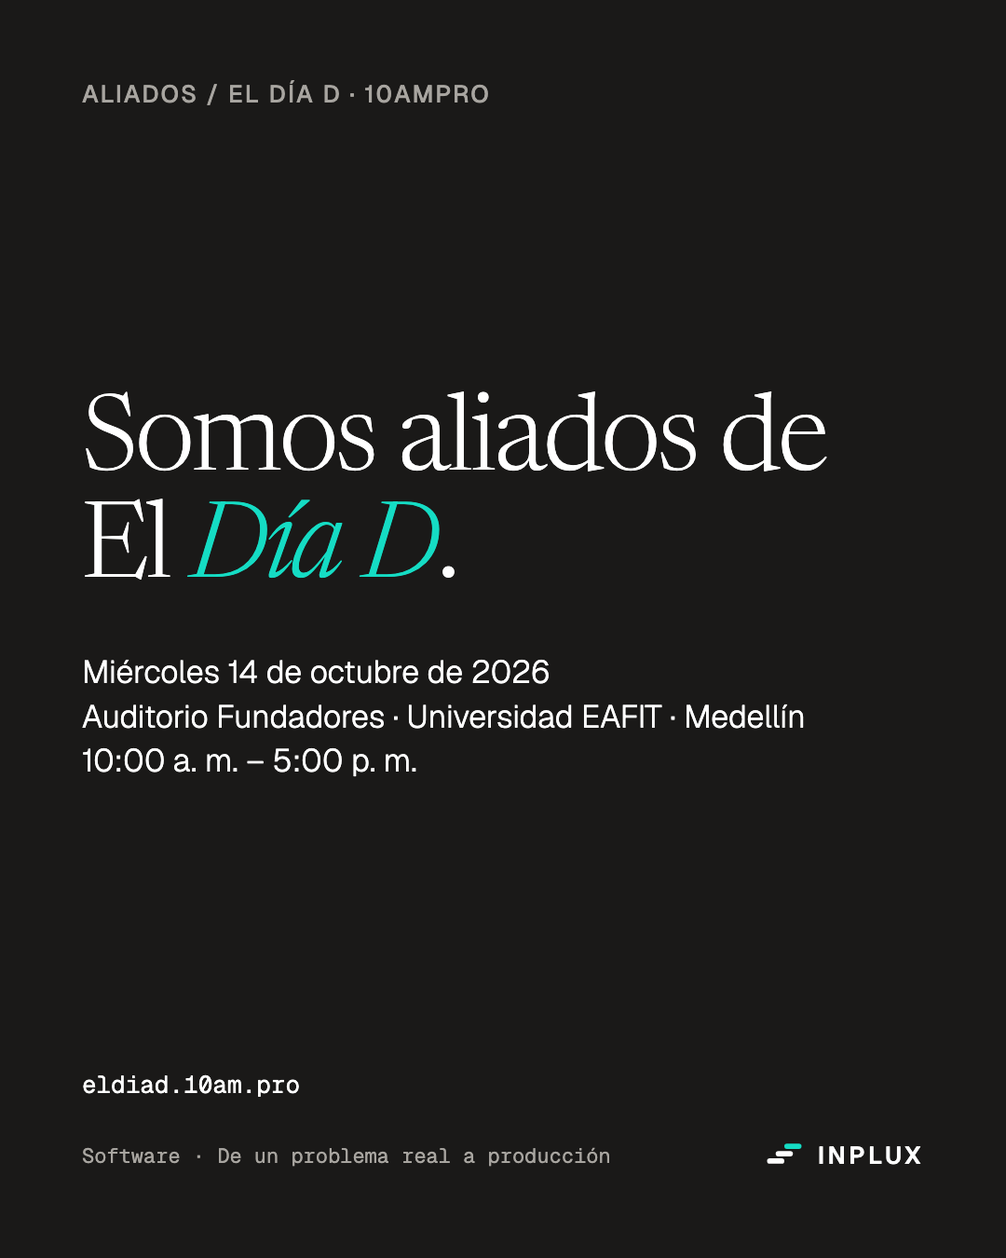
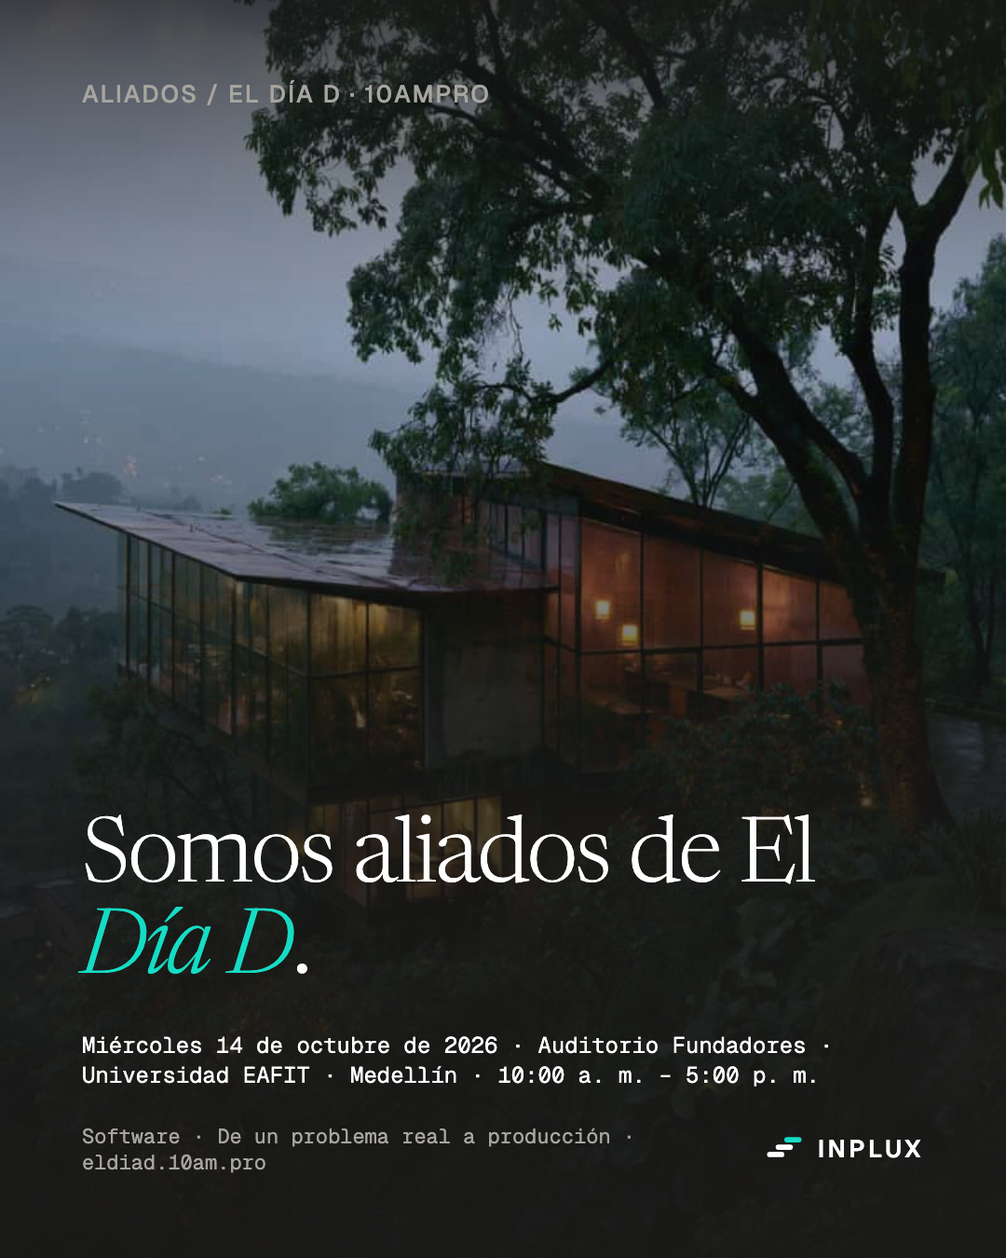
feat(instagram): Segovia con foto aérea y 1.549 votos, Día D con fondo, mención de egonomista y Porkia
La familia foto + degradado gana un degradado superior para el kicker. Segovia usa la
panorámica de la Alcaldía con la cifra real del monitor (corte 8-sep 20:27) y queda
programada para después del cierre del 3 de octubre, con visto bueno de la Alcaldía.
El Día D usa la imagen de atmósfera del sitio hasta que haya foto real del evento.

Claude-Session: https://claude.ai/code/session_011RKdbYaNWTqpn8kGVC1Ypn

diff --git a/brand/instagram/canvas/DiaD.dc.html b/brand/instagram/canvas/DiaD.dc.html
@@ -14,7 +14,7 @@
     em { font-style: italic; }
   </style>
 </helmet>
-<div style="position: relative; box-sizing: border-box; width: 1080px; height: 1350px; padding: 88px; display: flex; flex-direction: column; justify-content: space-between; background: #1a1918; color: #ffffff; font-family: Geist, system-ui, -apple-system, 'Helvetica Neue', sans-serif; overflow: hidden;"><div style="font-family: Geist, system-ui, -apple-system, 'Helvetica Neue', sans-serif; font-weight: 500; font-size: 26px; line-height: 1; letter-spacing: 0.08em; text-transform: uppercase; color: #a8a5a0;">Aliados / El Día D · 10ampro</div><div style="display: flex; flex-direction: column; gap: 48px;"><h1 style="margin: 0; font-family: Newsreader, Georgia, 'Times New Roman', serif; font-weight: 300; font-size: 112px; line-height: 1.02; letter-spacing: -0.02em; color: #ffffff; text-wrap: pretty;">Somos aliados de El <em style="font-style: italic; color: #15dcc4;">Día D</em>.</h1><div style="font-family: Geist, system-ui, -apple-system, 'Helvetica Neue', sans-serif; font-weight: 300; font-size: 34px; line-height: 1.4; color: #ffffff; text-wrap: pretty;">Miércoles 14 de octubre de 2026<br>Auditorio Fundadores · Universidad EAFIT · Medellín<br>10:00 a. m. – 5:00 p. m.</div></div><div style="display: flex; flex-direction: column; gap: 36px;"><div style="font-family: 'Geist Mono', ui-monospace, SFMono-Regular, Menlo, monospace; font-weight: 400; font-size: 26px; line-height: 1.3; color: #ffffff;">eldiad.10am.pro</div><div style="display: flex; justify-content: space-between; align-items: center; gap: 32px;"><div style="font-family: 'Geist Mono', ui-monospace, SFMono-Regular, Menlo, monospace; font-weight: 400; font-size: 22px; line-height: 1.3; color: #a8a5a0;">Software · De un problema real a producción</div><div style="display: flex; align-items: center; gap: 14px;"><svg xmlns="http://www.w3.org/2000/svg" viewBox="0 0 100 100" width="44" height="44" role="img" aria-label="INPLUX"><rect x="8" y="57" width="42" height="13" rx="6.5" fill="#ffffff"></rect><rect x="29" y="39" width="42" height="13" rx="6.5" fill="#ffffff"></rect><rect x="50" y="21" width="42" height="13" rx="6.5" fill="#15dcc4"></rect></svg><span style="font-family: Geist, system-ui, -apple-system, 'Helvetica Neue', sans-serif; font-weight: 600; font-size: 26px; line-height: 1; letter-spacing: 0.14em; color: #ffffff;">INPLUX</span></div></div></div></div>
+<div style="position: relative; box-sizing: border-box; width: 1080px; height: 1350px; padding: 88px; display: flex; flex-direction: column; justify-content: space-between; background: #1a1918; color: #ffffff; font-family: Geist, system-ui, -apple-system, 'Helvetica Neue', sans-serif; overflow: hidden;"><img src="medellin.jpg" alt="" style="position: absolute; top: 0; left: 0; width: 1080px; height: 1350px; object-fit: cover; display: block;"><div style="position: absolute; top: 0; right: 0; bottom: 0; left: 0; background: linear-gradient(to top, rgba(26,25,24,0.97) 0%, rgba(26,25,24,0.82) 34%, rgba(26,25,24,0.38) 62%, rgba(26,25,24,0.12) 100%);"></div><div style="position: absolute; top: 0; right: 0; left: 0; height: 360px; background: linear-gradient(to bottom, rgba(26,25,24,0.78) 0%, rgba(26,25,24,0.0) 100%);"></div><div style="position: relative;"><div style="font-family: Geist, system-ui, -apple-system, 'Helvetica Neue', sans-serif; font-weight: 500; font-size: 26px; line-height: 1; letter-spacing: 0.08em; text-transform: uppercase; color: #a8a5a0;">Aliados / El Día D · 10ampro</div></div><div style="position: relative; display: flex; flex-direction: column; gap: 36px;"><h1 style="margin: 0; font-family: Newsreader, Georgia, 'Times New Roman', serif; font-weight: 300; font-size: 96px; line-height: 1.02; letter-spacing: -0.02em; color: #ffffff; text-wrap: pretty;">Somos aliados de El <em style="font-style: italic; color: #15dcc4;">Día D</em>.</h1><div style="font-family: 'Geist Mono', ui-monospace, SFMono-Regular, Menlo, monospace; font-weight: 400; font-size: 24px; line-height: 1.3; color: #ffffff;">Miércoles 14 de octubre de 2026 · Auditorio Fundadores · Universidad EAFIT · Medellín · 10:00 a. m. – 5:00 p. m.</div><div style="display: flex; justify-content: space-between; align-items: center; gap: 32px;"><div style="font-family: 'Geist Mono', ui-monospace, SFMono-Regular, Menlo, monospace; font-weight: 400; font-size: 22px; line-height: 1.3; color: #a8a5a0;">Software · De un problema real a producción · eldiad.10am.pro</div><div style="display: flex; align-items: center; gap: 14px;"><svg xmlns="http://www.w3.org/2000/svg" viewBox="0 0 100 100" width="44" height="44" role="img" aria-label="INPLUX"><rect x="8" y="57" width="42" height="13" rx="6.5" fill="#ffffff"></rect><rect x="29" y="39" width="42" height="13" rx="6.5" fill="#ffffff"></rect><rect x="50" y="21" width="42" height="13" rx="6.5" fill="#15dcc4"></rect></svg><span style="font-family: Geist, system-ui, -apple-system, 'Helvetica Neue', sans-serif; font-weight: 600; font-size: 26px; line-height: 1; letter-spacing: 0.14em; color: #ffffff;">INPLUX</span></div></div></div></div>
 </x-dc>
 </body>
 </html>

diff --git a/brand/instagram/canvas/Segovia.dc.html b/brand/instagram/canvas/Segovia.dc.html
@@ -1,0 +1,20 @@
+<!doctype html>
+<html>
+<head>
+  <meta charset="utf-8">
+  <script src="./support.js"></script>
+</head>
+<body>
+<x-dc>
+<helmet>
+  <link rel="stylesheet" href="https://fonts.googleapis.com/css2?family=Newsreader:ital,opsz,wght@0,6..72,300;1,6..72,300&family=Geist:wght@300;400;500;600&family=Geist+Mono:wght@400;500&display=swap">
+  <style>
+    body { margin: 0; background: #1a1918; }
+    a { color: #15dcc4; } a:hover { color: #15dcc4; }
+    em { font-style: italic; }
+  </style>
+</helmet>
+<div style="position: relative; box-sizing: border-box; width: 1080px; height: 1350px; padding: 88px; display: flex; flex-direction: column; justify-content: space-between; background: #1a1918; color: #ffffff; font-family: Geist, system-ui, -apple-system, 'Helvetica Neue', sans-serif; overflow: hidden;"><img src="segovia.jpg" alt="" style="position: absolute; top: 0; left: 0; width: 1080px; height: 1350px; object-fit: cover; display: block;"><div style="position: absolute; top: 0; right: 0; bottom: 0; left: 0; background: linear-gradient(to top, rgba(26,25,24,0.97) 0%, rgba(26,25,24,0.82) 34%, rgba(26,25,24,0.38) 62%, rgba(26,25,24,0.12) 100%);"></div><div style="position: absolute; top: 0; right: 0; left: 0; height: 360px; background: linear-gradient(to bottom, rgba(26,25,24,0.78) 0%, rgba(26,25,24,0.0) 100%);"></div><div style="position: relative;"><div style="font-family: Geist, system-ui, -apple-system, 'Helvetica Neue', sans-serif; font-weight: 500; font-size: 26px; line-height: 1; letter-spacing: 0.08em; text-transform: uppercase; color: #a8a5a0;">Trabajo / Participación ciudadana · Segovia, Antioquia</div></div><div style="position: relative; display: flex; flex-direction: column; gap: 36px;"><h1 style="margin: 0; font-family: Newsreader, Georgia, 'Times New Roman', serif; font-weight: 300; font-size: 96px; line-height: 1.02; letter-spacing: -0.02em; color: #ffffff; text-wrap: pretty;"><em style="font-style: italic; color: #15dcc4;">1.549</em> personas ya votaron por las obras de su vereda o barrio.</h1><div style="font-family: 'Geist Mono', ui-monospace, SFMono-Regular, Menlo, monospace; font-weight: 400; font-size: 24px; line-height: 1.3; color: #ffffff;">Presupuesto participativo · Alcaldía de Segovia · corte 8 SEP 2026 · abierta hasta el 3 OCT</div><div style="display: flex; justify-content: space-between; align-items: center; gap: 32px;"><div style="font-family: 'Geist Mono', ui-monospace, SFMono-Regular, Menlo, monospace; font-weight: 400; font-size: 22px; line-height: 1.3; color: #a8a5a0;">participativo-segovia.vercel.app</div><div style="display: flex; align-items: center; gap: 14px;"><svg xmlns="http://www.w3.org/2000/svg" viewBox="0 0 100 100" width="44" height="44" role="img" aria-label="INPLUX"><rect x="8" y="57" width="42" height="13" rx="6.5" fill="#ffffff"></rect><rect x="29" y="39" width="42" height="13" rx="6.5" fill="#ffffff"></rect><rect x="50" y="21" width="42" height="13" rx="6.5" fill="#15dcc4"></rect></svg><span style="font-family: Geist, system-ui, -apple-system, 'Helvetica Neue', sans-serif; font-weight: 600; font-size: 26px; line-height: 1; letter-spacing: 0.14em; color: #ffffff;">INPLUX</span></div></div></div></div>
+</x-dc>
+</body>
+</html>

diff --git a/brand/instagram/canvas/Porkia.dc.html b/brand/instagram/canvas/Porkia.dc.html
@@ -1,0 +1,20 @@
+<!doctype html>
+<html>
+<head>
+  <meta charset="utf-8">
+  <script src="./support.js"></script>
+</head>
+<body>
+<x-dc>
+<helmet>
+  <link rel="stylesheet" href="https://fonts.googleapis.com/css2?family=Newsreader:ital,opsz,wght@0,6..72,300;1,6..72,300&family=Geist:wght@300;400;500;600&family=Geist+Mono:wght@400;500&display=swap">
+  <style>
+    body { margin: 0; background: #f8f8f7; }
+    a { color: #0d7d74; } a:hover { color: #0d7d74; }
+    em { font-style: italic; }
+  </style>
+</helmet>
+<div style="position: relative; box-sizing: border-box; width: 1080px; height: 1350px; padding: 88px; display: flex; flex-direction: column; justify-content: space-between; background: #f8f8f7; color: #1a1918; font-family: Geist, system-ui, -apple-system, 'Helvetica Neue', sans-serif; overflow: hidden;"><div style="display: flex; flex-direction: column; gap: 40px;"><div style="font-family: Geist, system-ui, -apple-system, 'Helvetica Neue', sans-serif; font-weight: 500; font-size: 26px; line-height: 1; letter-spacing: 0.08em; text-transform: uppercase; color: #6e6b68;">Trabajo / Porcicultura · Por solicitud</div><h1 style="margin: 0; font-family: Newsreader, Georgia, 'Times New Roman', serif; font-weight: 300; font-size: 96px; line-height: 1.02; letter-spacing: -0.02em; color: #1a1918; text-wrap: pretty;">Llevar una finca porcícola sin volver al <em style="font-style: italic; color: #0d7d74;">cuaderno</em>.</h1></div><div style="border-radius: 14px; border: 1px solid #e5e3e0; background: #ffffff; overflow: hidden;"><div style="display: flex; align-items: center; gap: 18px; height: 56px; padding: 0 22px; background: #f3f1ee; border-bottom: 1px solid #e5e3e0;"><div style="display: flex; gap: 8px;"><span style="display: block; width: 12px; height: 12px; border-radius: 999px; background: #d1cfcc;"></span><span style="display: block; width: 12px; height: 12px; border-radius: 999px; background: #d1cfcc;"></span><span style="display: block; width: 12px; height: 12px; border-radius: 999px; background: #d1cfcc;"></span></div><div style="font-family: 'Geist Mono', ui-monospace, SFMono-Regular, Menlo, monospace; font-size: 22px; line-height: 1; color: #6e6b68;">porkia.co/#demo</div></div><img src="porkia.jpg" alt="" style="display: block; width: 100%; height: auto;"></div><div style="display: flex; justify-content: space-between; align-items: center; gap: 32px;"><div style="font-family: 'Geist Mono', ui-monospace, SFMono-Regular, Menlo, monospace; font-weight: 400; font-size: 24px; line-height: 1.3; color: #6e6b68;">Porkia · captura real · 11 AGO 2026</div><div style="display: flex; align-items: center; gap: 14px;"><svg xmlns="http://www.w3.org/2000/svg" viewBox="0 0 100 100" width="44" height="44" role="img" aria-label="INPLUX"><rect x="8" y="57" width="42" height="13" rx="6.5" fill="#1a1918"></rect><rect x="29" y="39" width="42" height="13" rx="6.5" fill="#1a1918"></rect><rect x="50" y="21" width="42" height="13" rx="6.5" fill="#0d7d74"></rect></svg><span style="font-family: Geist, system-ui, -apple-system, 'Helvetica Neue', sans-serif; font-weight: 600; font-size: 26px; line-height: 1; letter-spacing: 0.14em; color: #1a1918;">INPLUX</span></div></div></div>
+</x-dc>
+</body>
+</html>

diff --git a/brand/instagram/canvas/Egonomista.dc.html b/brand/instagram/canvas/Egonomista.dc.html
@@ -1,0 +1,20 @@
+<!doctype html>
+<html>
+<head>
+  <meta charset="utf-8">
+  <script src="./support.js"></script>
+</head>
+<body>
+<x-dc>
+<helmet>
+  <link rel="stylesheet" href="https://fonts.googleapis.com/css2?family=Newsreader:ital,opsz,wght@0,6..72,300;1,6..72,300&family=Geist:wght@300;400;500;600&family=Geist+Mono:wght@400;500&display=swap">
+  <style>
+    body { margin: 0; background: #f8f8f7; }
+    a { color: #0d7d74; } a:hover { color: #0d7d74; }
+    em { font-style: italic; }
+  </style>
+</helmet>
+<div style="position: relative; box-sizing: border-box; width: 1080px; height: 1350px; padding: 88px; display: flex; flex-direction: column; justify-content: space-between; background: #f8f8f7; color: #1a1918; font-family: Geist, system-ui, -apple-system, 'Helvetica Neue', sans-serif; overflow: hidden;"><div style="font-family: Geist, system-ui, -apple-system, 'Helvetica Neue', sans-serif; font-weight: 500; font-size: 26px; line-height: 1; letter-spacing: 0.08em; text-transform: uppercase; color: #6e6b68;">Nos mencionan / @egonomista</div><h1 style="margin: 0; font-family: Newsreader, Georgia, 'Times New Roman', serif; font-weight: 300; font-size: 84px; line-height: 1.02; letter-spacing: -0.02em; color: #1a1918; text-wrap: pretty;">&#171;Hay plataformas que organizan su información, hacen buena parte de los cálculos y lo llevan paso a paso&#187;</h1><div style="display: flex; flex-direction: column; gap: 36px;"><div style="font-family: 'Geist Mono', ui-monospace, SFMono-Regular, Menlo, monospace; font-weight: 400; font-size: 26px; line-height: 1.3; color: #1a1918;">Reel de @egonomista sobre 3 plataformas para declarar renta · 05 SEP 2026</div><div style="display: flex; justify-content: space-between; align-items: center; gap: 32px;"><div style="font-family: 'Geist Mono', ui-monospace, SFMono-Regular, Menlo, monospace; font-weight: 400; font-size: 22px; line-height: 1.3; color: #6e6b68;">Tribai entre las tres · app.tribai.co</div><div style="display: flex; align-items: center; gap: 14px;"><svg xmlns="http://www.w3.org/2000/svg" viewBox="0 0 100 100" width="44" height="44" role="img" aria-label="INPLUX"><rect x="8" y="57" width="42" height="13" rx="6.5" fill="#1a1918"></rect><rect x="29" y="39" width="42" height="13" rx="6.5" fill="#1a1918"></rect><rect x="50" y="21" width="42" height="13" rx="6.5" fill="#0d7d74"></rect></svg><span style="font-family: Geist, system-ui, -apple-system, 'Helvetica Neue', sans-serif; font-weight: 600; font-size: 26px; line-height: 1; letter-spacing: 0.14em; color: #1a1918;">INPLUX</span></div></div></div></div>
+</x-dc>
+</body>
+</html>

diff --git a/brand/instagram/canvas/build-artboards.py b/brand/instagram/canvas/build-artboards.py
@@ -155,14 +155,6 @@ lista('Servicios', 'ink', 'Fábrica / Qué construimos', f'Qué {em("construimos
     ('03', 'Automatizar trabajo y conocimiento', 'Convertimos tareas repetitivas y conocimiento disperso en flujos trazables, con revisión humana donde importa.'),
 ])
 
-t = T['ink']
-page('DiaD', 'ink', [
-    kicker('Aliados / El Día D · 10ampro', t),
-    col([headline(f'Somos aliados de El {em("Día D", t)}.', t, 112),
-         body('Miércoles 14 de octubre de 2026<br>Auditorio Fundadores · Universidad EAFIT · Medellín<br>10:00 a. m. – 5:00 p. m.', t, 34)], 48),
-    col([meta('eldiad.10am.pro', t, 26, t['fg']), row([meta('Software · De un problema real a producción', t, 22), lockup(t)])], 36),
-])
-
 # Avatar 1080×1080
 t = T['ink']
 pathlib.Path('Avatar.dc.html').write_text(head(t) +
@@ -202,6 +194,24 @@ cita('Mencion', 'ink', 'Nos mencionan / @10ampro',
      'El cerebro tributario de Colombia construido con AI por los Alphas de 10ampro',
      'Reel de @10ampro con Hernán Jaramillo (holdmybirra)', 'Sobre Tribai · app.tribai.co')
 
+foto('DiaD', 'Aliados / El Día D · 10ampro',
+     f'Somos aliados de El {em("Día D", T["ink"])}.',
+     'Miércoles 14 de octubre de 2026 · Auditorio Fundadores · Universidad EAFIT · Medellín · 10:00 a. m. – 5:00 p. m.',
+     'Software · De un problema real a producción · eldiad.10am.pro', 'medellin.jpg')
+
+foto('Segovia', 'Trabajo / Participación ciudadana · Segovia, Antioquia',
+     f'{em("1.549", T["ink"])} personas ya votaron por las obras de su vereda o barrio.',
+     'Presupuesto participativo · Alcaldía de Segovia · corte 8 SEP 2026 · abierta hasta el 3 OCT',
+     'participativo-segovia.vercel.app', 'segovia.jpg')
+
+cita('Egonomista', 'paper', 'Nos mencionan / @egonomista',
+     'Hay plataformas que organizan su información, hacen buena parte de los cálculos y lo llevan paso a paso',
+     'Reel de @egonomista sobre 3 plataformas para declarar renta · 05 SEP 2026', 'Tribai entre las tres · app.tribai.co')
+
+producto('Porkia', 'paper', 'Trabajo / Porcicultura · Por solicitud',
+         f'Llevar una finca porcícola sin volver al {em("cuaderno", T["paper"])}.',
+         'porkia.jpg', 'porkia.co/#demo', 'Porkia · captura real · 11 AGO 2026')
+
 # canvas.json — se lee como el grid de Instagram (más reciente arriba a la izquierda)
 W, H, GX, GY = 1080, 1350, 100, 120
 def at(cx, ry, h=H): return dict(x=cx * (W + GX), y=ry * (H + GY), w=W, h=h)
@@ -216,10 +226,13 @@ canvas = {
     dict(file='Tribai.dc.html',      title='3 · Trabajo · Tribai',            **at(0, 2)),
     dict(file='Harvard.dc.html',     title='2 · Reconocimiento · ODR 2026',   **at(1, 2)),
     dict(file='Main.dc.html',        title='1 · Marca',                       **at(2, 2)),
-    dict(file='DiaD.dc.html',        title='10 · Evento · Día D (tanda 2)',   **at(0, 3)),
-    dict(file='Metodo.dc.html',      title='11 · Cómo trabajamos (tanda 2)',  **at(1, 3)),
-    dict(file='Servicios.dc.html',   title='13 · Qué construimos (tanda 2)',  **at(2, 3)),
-    dict(file='Avatar.dc.html',      title='Avatar 1080 × 1080',              **at(0, 4, 1080)),
+    dict(file='DiaD.dc.html',        title='10 · Evento · Día D (tanda 2)',       **at(0, 3)),
+    dict(file='Segovia.dc.html',     title='12 · Trabajo · Segovia (tanda 2)',    **at(1, 3)),
+    dict(file='Metodo.dc.html',      title='11 · Cómo trabajamos (tanda 2)',      **at(2, 3)),
+    dict(file='Servicios.dc.html',   title='13 · Qué construimos (tanda 2)',      **at(0, 4)),
+    dict(file='Egonomista.dc.html',  title='14 · Nos mencionan · egonomista',     **at(1, 4)),
+    dict(file='Porkia.dc.html',      title='15 · Trabajo · Porkia (tanda 2)',     **at(2, 4)),
+    dict(file='Avatar.dc.html',      title='Avatar 1080 × 1080',                  **at(0, 5, 1080)),
   ],
   'annotations': [
     dict(id='orden', x=0, y=-260, w=1400,
@@ -227,7 +240,7 @@ canvas = {
               'Tanda 1 (9 al 28 de septiembre): 1 Marca · 2 Reconocimiento ODR 2026 · 3 Tribai · 4 Nos mencionan 10ampro · 5 Gobia · 6 Columna · 7 Kelsen · 8 Commonplace · 9 Laudos.\n'
               'Exportar cada artboard como PNG (1080 × 1350). Captions y alt en brand/instagram/CAPTIONS.md; calendario en METRICOOL.md.'),
     dict(id='tanda2', x=0, y=4210, w=1400,
-         text='Fila de reserva, tanda 2 (30 de septiembre al Día D): Aliados del Día D, Cómo trabajamos, Qué construimos. Faltan por diseñar: audiograma Blu Radio, mención de @egonomista, equipo con fotos reales, Porkia.'),
+         text='Tanda 2 (30 de septiembre al Día D): Aliados del Día D, Segovia (publicar con la cifra final tras el cierre del 3 de octubre, o antes con el visto bueno de la Alcaldía), Cómo trabajamos, Qué construimos, mención de @egonomista, Porkia. Faltan: audiograma Blu Radio y equipo con fotos reales.'),
   ],
   'launch': {'view': 'canvas'},
 }

diff --git a/brand/instagram/ESTRATEGIA.md b/brand/instagram/ESTRATEGIA.md
@@ -26,6 +26,7 @@ orden de peso:
 | Panel 11 del XIV Congreso Nacional e Internacional de Arbitraje | Comité Colombiano de Arbitraje | 7-may-2026 | Tanda 2 |
 | Nueve columnas firmadas en Al Poniente | Al Poniente (publicación del equipo, no cobertura) | press.ts | Una por tanda, rotuladas como columna |
 | Cinco productos en producción con capturas fechadas | Los propios productos | capture-manifest.json | Cuatro por tanda |
+| **1.549 votos reales** en el presupuesto participativo de Segovia, Antioquia, a 16 días de abierta la votación (corte 8-sep 20:27; cierra 3-oct) | Alcaldía de Segovia | Monitor de producción de la plataforma (solo lectura) | Post 12 de la tanda 2 · **la cifra no está publicada por la Alcaldía**: confirmar antes |
 | Diez clientes con logo en inplux.co | Clientes | inplux.co | Cuando haya foto o testimonio real, no antes |
 
 Regla: **ninguna pieza de opinión propia sin una prueba de tercero al lado en la misma
@@ -82,17 +83,22 @@ reel de @egonomista y del reel de @10ampro en historias, guardados en el highlig
 |---|---|---|---|---|
 | 10 | Mié 30-sep | Somos aliados de El Día D | Evento | Nada, ya diseñado |
 | 11 | Vie 02-oct | Cómo trabajamos | Método | Nada, ya diseñado |
-| 12 | Lun 05-oct | Audiograma Blu Radio 1 | Radio | Audio y fecha de la entrevista |
+| 12 | Lun 05-oct | 1.549 personas ya votaron · Segovia (foto aérea; cifra final tras el cierre del 3-oct) | Trabajo | Visto bueno de la Alcaldía para publicar la cifra |
 | 13 | Mié 07-oct | Qué construimos | Método | Nada, ya diseñado |
 | 14 | Vie 09-oct | Tribai entre las 3 plataformas · @egonomista | Nos mencionan | Nada |
 | 15 | Lun 12-oct (festivo) | Jaime y Cristian: quiénes construyen | Personas | Fotos reales |
 | 16 | Mar 13-oct | Mañana, Día D: agenda y dónde encontrarnos | Evento | Confirmar espacio físico de INPLUX en el evento |
 | 17 | Mié 14-oct | Historias en vivo todo el día; al cierre, una foto real del auditorio | Evento | Estar allí con el teléfono |
 | 18 | Jue 15-oct | Lo que vimos en el Día D, con fotos reales | Evento | Fotos del día |
-| 19 | Vie 16-oct | Audiograma Blu Radio 2 o Panel del Comité de Arbitraje | Radio / Evento | Audio |
+| 19 | Vie 16-oct | Audiograma Blu Radio 1 o Panel del Comité de Arbitraje | Radio / Evento | Audio y fecha de la entrevista |
 
-Si el 12 de octubre no hay fotos reales del equipo, ese día sale Porkia (Trabajo) y la
-pieza de personas espera.
+Si el 12 de octubre no hay fotos reales del equipo, ese día sale Porkia (Trabajo, ya
+diseñada) y la pieza de personas espera.
+
+⚠ **Segovia:** la plataforma oculta los conteos durante la votación a propósito y los
+resultados se publican el 3 de octubre. El total de participación (no el reparto por línea)
+es lo único que se cuenta, y solo con acuerdo de la Alcaldía. Publicado el 5 de octubre con
+la cifra final, la pieza es más fuerte y no adelanta nada.
 
 ---
 

diff --git a/brand/instagram/CAPTIONS.md b/brand/instagram/CAPTIONS.md
@@ -191,3 +191,34 @@ app.tribai.co
 #tribai #declaraciónderenta #medellín
 
 **Alt:** Cita sobre fondo claro que atribuye a egonomista la recomendación de Tribai entre tres plataformas para declarar renta.
+
+---
+
+## 12 · Trabajo — Segovia — lun 05-oct (con la cifra final; antes solo con visto bueno de la Alcaldía)
+**Caption**
+1.549 personas ya votaron por las obras de su vereda o barrio.
+
+Es el presupuesto participativo de Segovia, Antioquia. Construimos la plataforma con la Alcaldía: cada persona elige con su cédula y un celular, en unos cinco minutos, en qué se invierte la plata de su comunidad. La votación está abierta hasta el 3 de octubre.
+
+Corte del 8 de septiembre. Antes de publicar, actualizar la cifra y confirmar con la Alcaldía que se puede contar.
+participativo-segovia.vercel.app
+
+[Etiquetar la cuenta oficial de la Alcaldía de Segovia solo con su acuerdo.]
+
+#govtech #participaciónciudadana #segovia #fábricadesoftware
+
+**Alt:** Fotografía aérea de Segovia, Antioquia, con el texto: 1.549 personas ya votaron por las obras de su vereda o barrio.
+
+---
+
+## 15 · Trabajo — Porkia — lun 12-oct (si no hay fotos reales del equipo)
+**Caption**
+Llevar una finca porcícola sin volver al cuaderno.
+
+Porkia registra lotes, cuido, sanidad y cuentas de una finca porcícola desde el celular. Beta cerrada, acceso por solicitud, en porkia.co.
+
+Captura real de la demo, 11 de agosto de 2026.
+
+#agrotech #fábricadesoftware #medellín
+
+**Alt:** Captura de pantalla de la demo de Porkia dentro de un marco de navegador con la dirección porkia.co.

diff --git a/brand/instagram/DESIGN.md b/brand/instagram/DESIGN.md
@@ -147,8 +147,11 @@ símbolo va grande (≥ 300 px) y el pie lleva solo el wordmark, sin el lockup p
 1. **Capturas reales** de producto, siempre en marco de navegador con la URL viva y la
    fecha del acta en el pie. Son la prueba. Nunca mockups inventados.
 2. **Fotografía real** de eventos y personas: color natural o blanco y negro. Sin tinte.
+   Regla práctica: blanco y negro para letreros, salas y escenarios (Harvard); color con la
+   saturación bajada a ~0,8 para paisajes y territorio (Segovia), porque el lugar es el dato.
 3. **Imagen generada (Midjourney)** solo como **textura o atmósfera**, en la línea de las
-   que ya usa el sitio (`public/brand/about/*.webp`: bodegones de papel y aluminio,
+   que ya usa el sitio (el post de aliados del Día D usa `contexto-medellin.webp` como fondo
+   mientras no haya foto real del evento; se reemplaza el 14 de octubre) (`public/brand/about/*.webp`: bodegones de papel y aluminio,
    arquitectura entre niebla). Nunca personas generadas, nunca «oficina feliz» de stock.
 4. Prohibido: fotos de stock teñidas, flechas decorativas, íconos emoji, mosaicos de logos.
 
